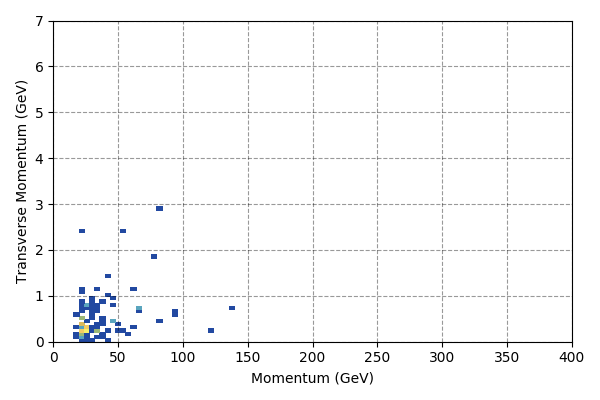
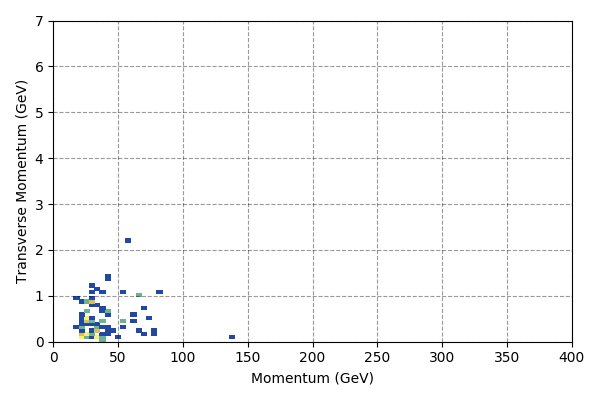
ignore the x-y distribution for evo algo, temporary fix for beam smearing problem. Full fix requires retraining

diff --git a/Generate_for_evo_algo.py b/Generate_for_evo_algo.py
@@ -13,7 +13,7 @@ muGAN = muGAN()
 kinematics_of_muons = muGAN.generate(size=100, tuned_aux=True)[0]
 '''
 	Should be of the form:
-		shape: [n,7], columns: [Pdg (13 or -13), StartX, StartY, StartZ, Px, Py, Pz]
+		shape: [n,7], columns: [Pdg code (13 or -13), StartX, StartY, StartZ, Px, Py, Pz]
 '''
 muGAN.plot_p_pt(data=kinematics_of_muons, filename='kinematics_of_muons.png')
 

diff --git a/SHiP_GAN_module/muGAN.py b/SHiP_GAN_module/muGAN.py
@@ -590,7 +590,7 @@ class muGAN:
 
 			aux_values = np.swapaxes(np.squeeze(discriminator.predict(np.expand_dims(seed_vectors,1)))[1:],0,1)
 
-
+			aux_values[:,0] = np.random.normal(0,1,np.shape(aux_values[:,0]))
 			# np.save('/Users/am13743/oliver_seed_dists2.npy', aux_values)
 
 			# aux_values = np.load('/Users/am13743/oliver_seed_dists2.npy')
